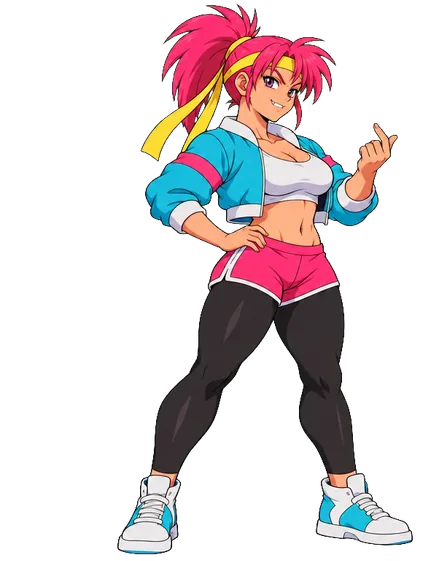
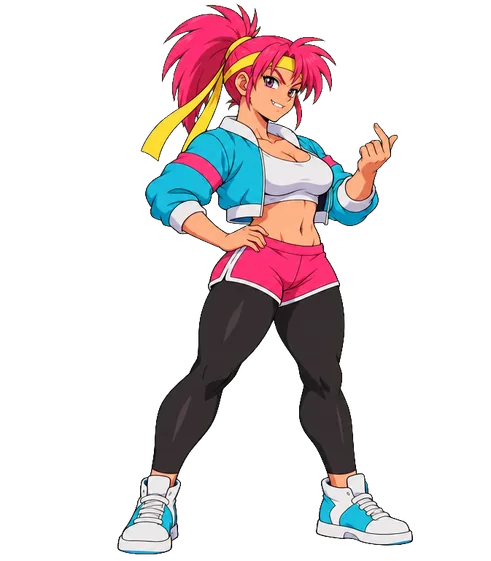
Poses d'esquive, d'esquive parfaite et de garde de rage pour Bernard et Lola (remplacent les teintes provisoires)
Claude-Session: https://claude.ai/code/session_016ZRnqXvz7LYTvbmnrVTrvT

diff --git a/src/scenes/FightScene.ts b/src/scenes/FightScene.ts
@@ -72,8 +72,8 @@ type HitEvent = Extract<MatchEvent, { type: 'hit' }>;
 type Defense = { defense?: DefenseQuality; rageGuard?: boolean };
 /** En ligne : temps d'attente maximal de l'esquive de l'adversaire (ms réelles). */
 const DEFENSE_WAIT_MS = 1200;
-/** Teintes de l'esquive (en attendant les vraies poses) : bleu = correcte, or = parfaite, rose = garde de rage. */
-const DODGE_TINT = { good: 0x8fd8ff, perfect: 0xffe27a, rage: 0xff9cc8 } as const;
+/** Pose de celui qui esquive : esquive correcte, esquive parfaite, garde de rage. */
+const DODGE_POSE = { good: 'dodge', perfect: 'dodge_perfect', rage: 'guard' } as const;
 
 /** Arrêt sur image au contact, avant la réaction (direction artistique : 80 ms). */
 const HITSTOP_MS = 80;
@@ -691,6 +691,8 @@ export class FightScene extends Phaser.Scene {
     this.defMove = null;
     this.defAt = null;
     this.defPointers.clear();
+    // Une garde ou une esquive restée en l'air (tour perdu au chrono, surchauffe) : retour en place.
+    for (const s of ['left', 'right'] as const) if (this.f[s].pose === 'guard' || this.f[s].pose === 'dodge' || this.f[s].pose === 'dodge_perfect') this.setPose(s, 'idle');
     this.timer.set(null);
     if (this.mode === 'training') {
       this.setPhase('ready');
@@ -1045,9 +1047,14 @@ export class FightScene extends Phaser.Scene {
     else if (!f.readyTag) f.sprite.setTint(this.skin[side]);
   }
 
-  /** Recul d'esquive (en attendant une vraie pose) : le perso part en arrière puis revient. */
-  private lean(side: Side) {
+  /** Recul d'esquive : pose d'esquive (ou de garde), le perso part en arrière puis revient. */
+  private lean(side: Side, pose: Pose = 'dodge') {
     const f = this.f[side];
+    this.setPose(side, pose);
+    // Esquive mal placée : le perso se remet en place (sinon l'impact prend la suite).
+    this.time.delayedCall(430, () => {
+      if (f.pose === pose && (this.phase === 'ready' || this.phase === 'charging' || this.phase === 'armed' || this.phase === 'combo' || this.phase === 'travel')) this.setPose(side, 'idle');
+    });
     const back = side === 'left' ? -1 : 1;
     this.tweens.killTweensOf(f.sprite);
     this.tweens.add({ targets: f.sprite, x: f.homeX + back * 34, duration: 80, ease: 'Quad.Out', yoyo: true, hold: 260 });
@@ -1064,6 +1071,8 @@ export class FightScene extends Phaser.Scene {
       this.lean(def);
       sfx.whoosh();
     } else if (this.match?.specialReady[def]) {
+      // Garde de rage : elle tient jusqu'à l'impact.
+      this.setPose(def, 'guard');
       this.fx.screenFlash(0.2, COLORS.pink);
       sfx.powerUp();
     }
@@ -1111,7 +1120,8 @@ export class FightScene extends Phaser.Scene {
     this.time.delayedCall(T - 70, () => {
       if (this.phase === 'travel') this.setPose(attSide, 'slap');
     });
-    if (pre && (pre.defense || pre.rageGuard)) this.time.delayedCall(T - (pre.defense === 'good' ? 140 : 60), () => this.lean(defSide));
+    if (pre?.rageGuard) this.time.delayedCall(T - 200, () => this.setPose(defSide, 'guard'));
+    else if (pre?.defense) this.time.delayedCall(T - (pre.defense === 'good' ? 140 : 60), () => this.lean(defSide, DODGE_POSE[pre.defense!]));
     this.tweens.killTweensOf(att.sprite);
     this.tweens.add({ targets: att.sprite, x: att.homeX + k.dir * k.step, duration: T, ease: 'Quad.In', onComplete: () => this.arrive() });
   }
@@ -1445,7 +1455,8 @@ export class FightScene extends Phaser.Scene {
     const power = special ? 1 : Math.min(1, hit.damage / 34);
     const dir = k.dir as 1 | -1;
 
-    // Contact : la main est sur la joue (pose idle).
+    // Contact : la main est sur la joue (pose idle), ou passe à côté si la gifle est esquivée.
+    if (dodge && this.match && this.match.hp[defSide] > 0) this.setPose(defSide, DODGE_POSE[dodge]);
     if (opts.hpAfter !== undefined) this.showHp(defSide, opts.hpAfter);
     else this.setHp(defSide, def.hp - hit.damage);
     this.slapCount++;
@@ -1465,12 +1476,8 @@ export class FightScene extends Phaser.Scene {
     this.freeze(limp ? 40 : HITSTOP_MS, () => {
       // Esquive parfaite ou garde de rage : le perso reste debout, la gifle ne fait que l'effleurer.
       const slipped = dodge === 'perfect' || dodge === 'rage';
-      if (!slipped || def.hp <= 0) this.setPose(defSide, 'hit');
-      if (dodge && def.hp > 0) {
-        this.setTint(defSide, DODGE_TINT[dodge]);
-        this.time.delayedCall(520, () => this.setTint(defSide, null));
-        if (dodge === 'rage') this.fx.screenFlash(0.3, COLORS.pink);
-      }
+      if (!dodge || def.hp <= 0) this.setPose(defSide, 'hit');
+      if (dodge === 'rage' && def.hp > 0) this.fx.screenFlash(0.3, COLORS.pink);
       // Garde de rage : la rage est dépensée tout de suite (jauge vide, plus d'aura).
       if (dodge === 'rage') {
         this.showReady(defSide, false);

diff --git a/src/scenes/BootScene.ts b/src/scenes/BootScene.ts
@@ -6,7 +6,7 @@ import type { FightData, Mode } from './FightScene';
 import type { AiLevel } from '../logic/ai';
 import { loadSession, normalizeCode } from '../net/protocol';
 
-export const POSES = ['idle', 'windup', 'swing', 'slap', 'hit', 'dazed', 'victory', 'selfslap'] as const;
+export const POSES = ['idle', 'windup', 'swing', 'slap', 'hit', 'dazed', 'victory', 'selfslap', 'dodge', 'dodge_perfect', 'guard'] as const;
 export type Pose = (typeof POSES)[number];
 export const fighterKey = (id: string, pose: Pose) => `${id}_${pose}`;
 

diff --git a/CHANGELOG.md b/CHANGELOG.md
@@ -225,3 +225,9 @@ Retour du propriétaire après une partie à deux : sur iPhone, le plein écran 
 - **Zone sûre** (`src/ui/safe.ts`) : barres de vie, boutons, jauge, aide et bandeau du commentateur s'écartent de l'encoche et de la barre d'accueil ; le décor, lui, va jusqu'au bord. `?safe=gauche,droite,haut,bas` simule ces marges.
 - Zoom bloqué (pincement, double appui) ; le jeu se recale quand les barres de Safari apparaissent ou disparaissent ; hauteur calée sur la zone réellement visible (`100dvh`).
 - Non vérifiable depuis le bac à sable (pas d'iPhone) : testé avec des marges simulées, à confirmer sur l'appareil.
+
+## Poses d'esquive et de garde — 2026-10-03
+
+- Trois nouvelles poses par perso, fournies par le propriétaire : `dodge` (esquive), `dodge_perfect` (esquive parfaite), `guard` (garde de rage). Elles remplacent les teintes provisoires (bleu / or / rose).
+- Les images générées n'étaient pas détourées (fond noir ou blanc) et deux d'entre elles contenaient un second personnage et des traits de vitesse : détourage par remplissage depuis les bords, on ne garde que le perso, les zones de fond enfermées (entre un bras et le corps) sont retirées. Chaque pose est ensuite posée sur le canevas du perso (1300 × 823 ou 908 × 772), pieds sur la ligne commune, à la même échelle que les autres.
+- En jeu : la pose d'esquive apparaît dès que le joueur glisse vers l'arrière (et le perso se remet en place si c'était trop tôt) ; la garde de rage tient jusqu'à l'impact.
